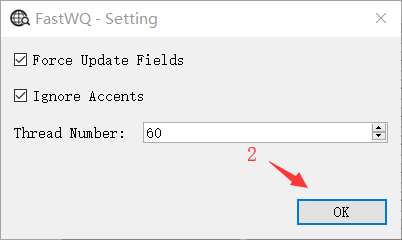
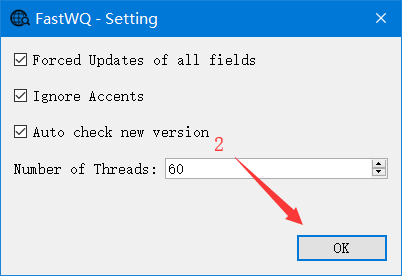
update doc

Changed region(s): [[0.0, 0.0, 1.0, 1.0], [0.0299, 0.175, 0.6567, 0.2917]]

diff --git a/README.md b/README.md
@@ -37,8 +37,10 @@ It forks from WordQuery, added **multi-thread feature**, and some other features
 
   2. Click **Settings** button in the Options window  
       ![](screenshots/setting_config_02.png)  
-      - **Force Update** : Update all fields even if it's None
-      - **Thread** : The number of threads running at the same time
+      - **Force Updates of all fields** : Update all fields even if it's None
+      - **Ignore Accents** : Ignore accents symbol of word in querying
+      - **Auto check new version** : Check new version at startup
+      - **Number of Threads** : The number of threads running at the same time
   
   
 ## Usage
